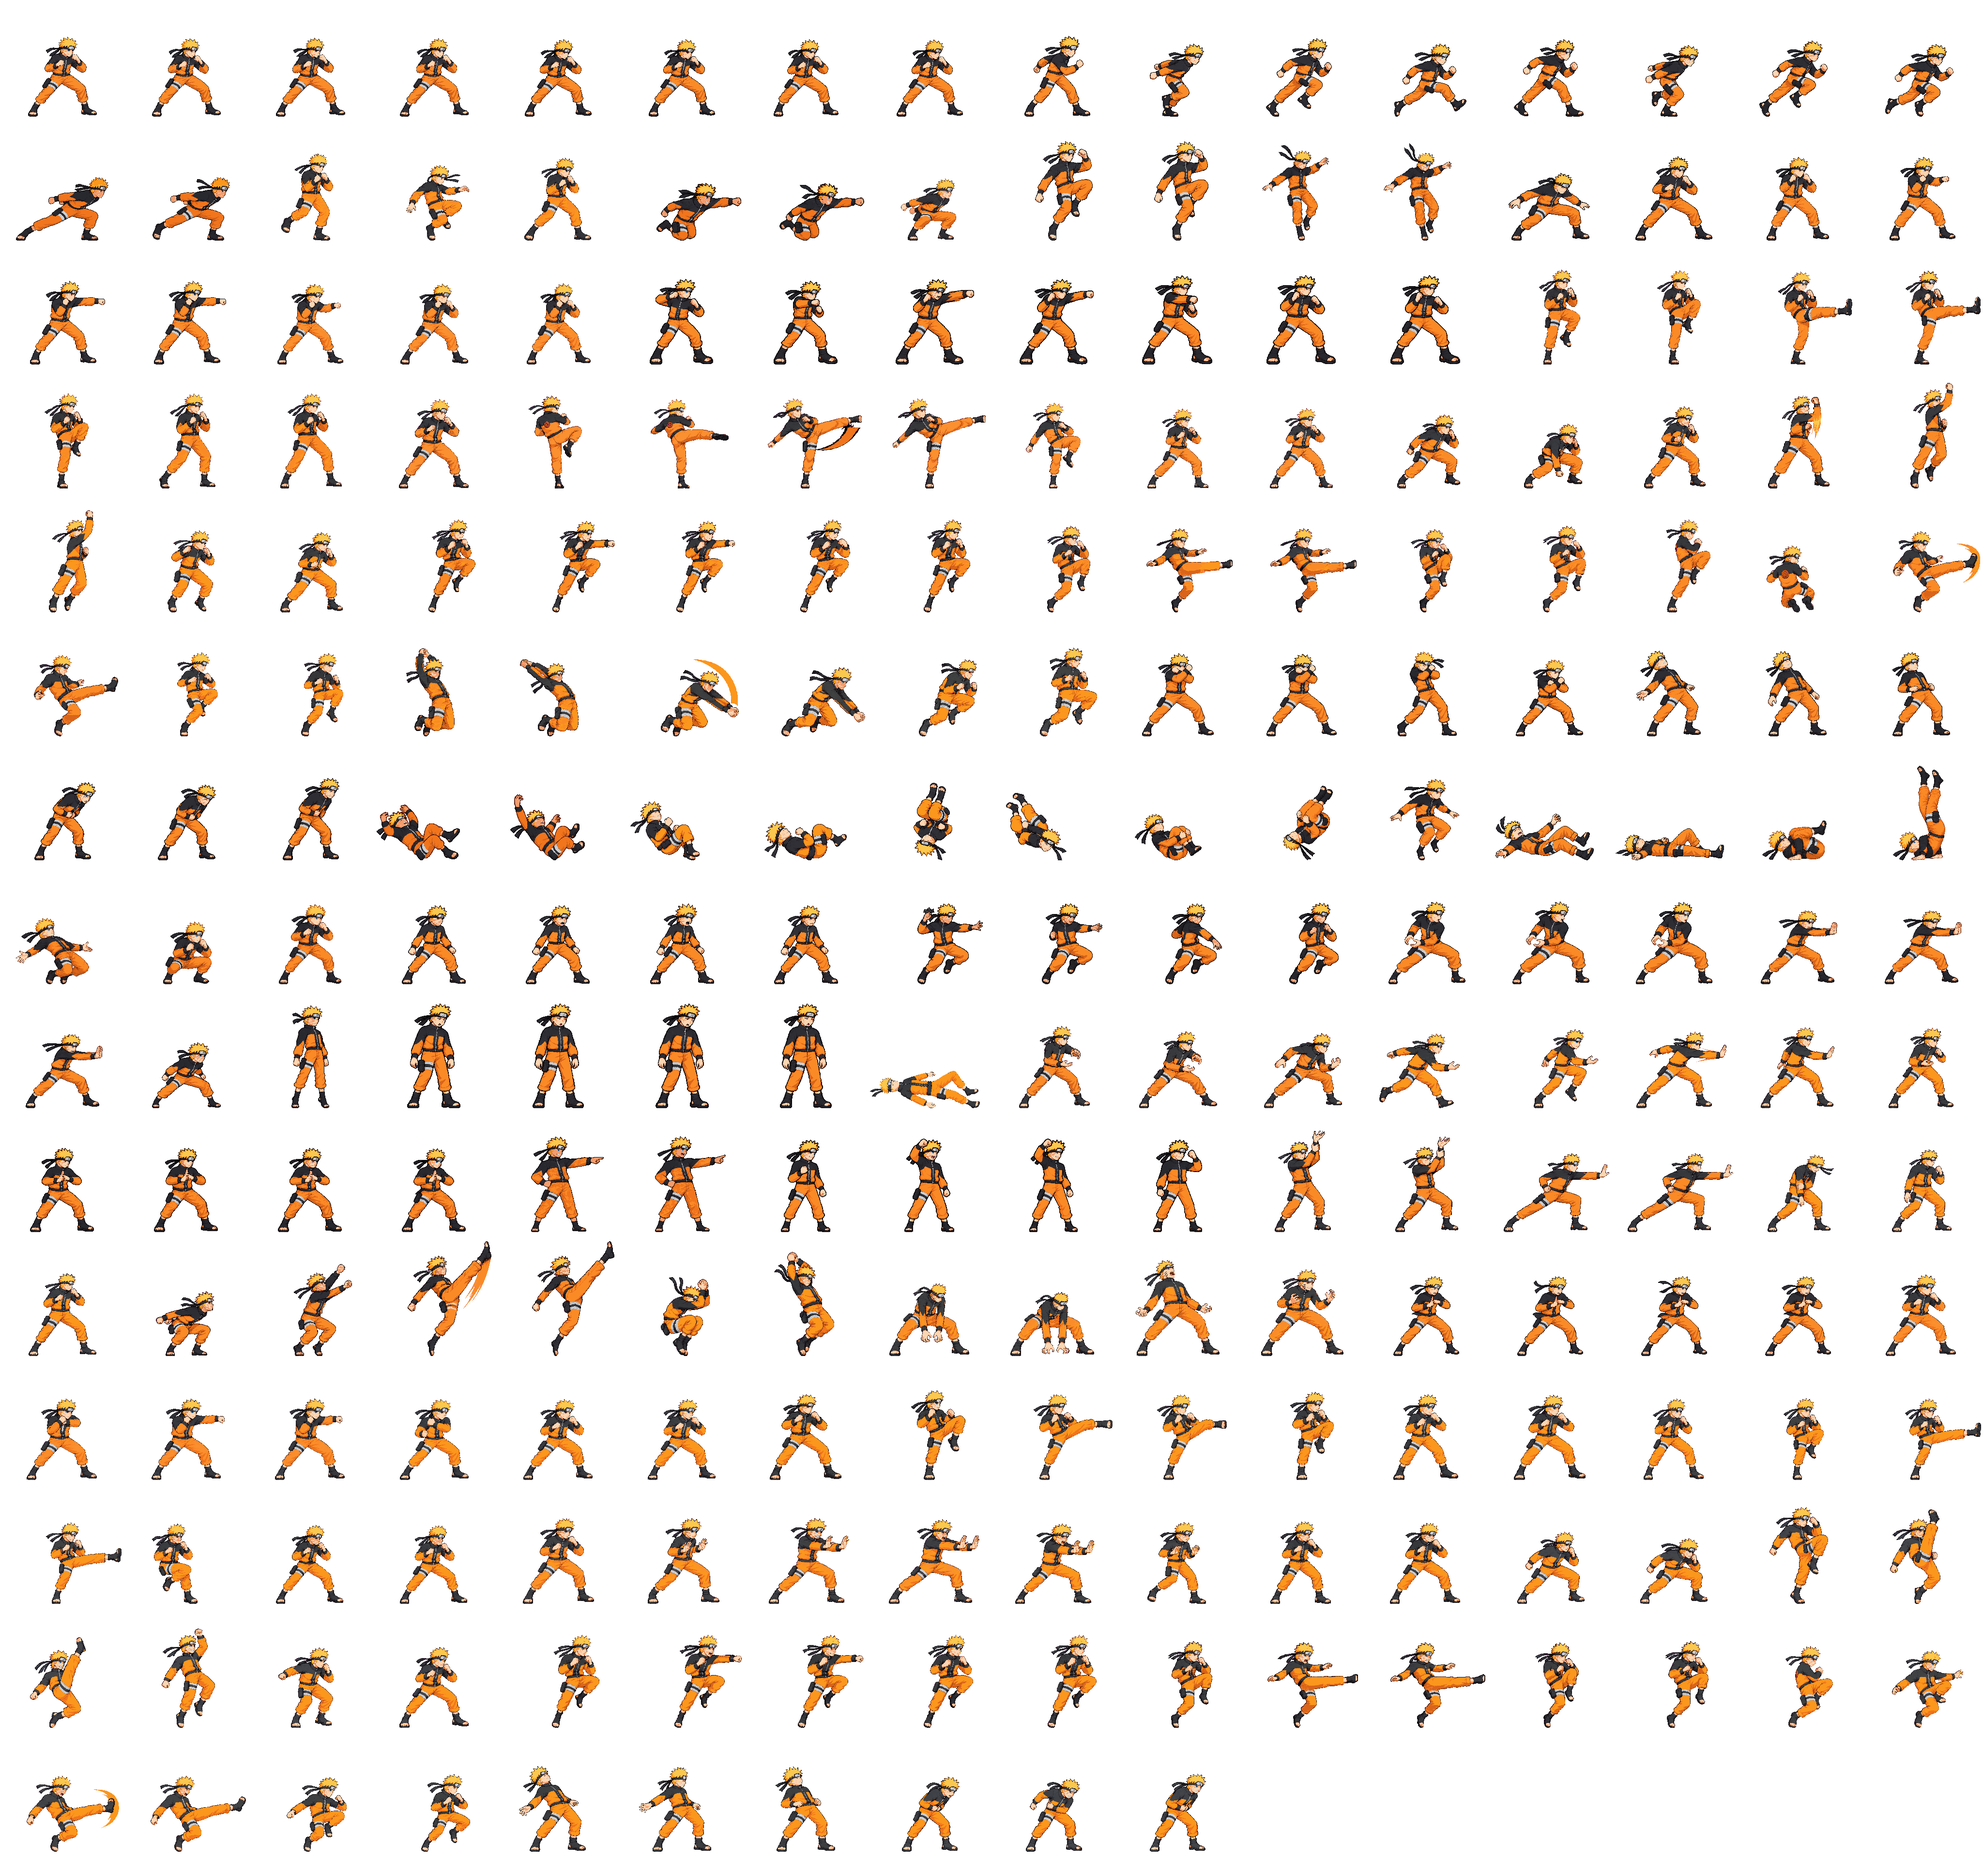
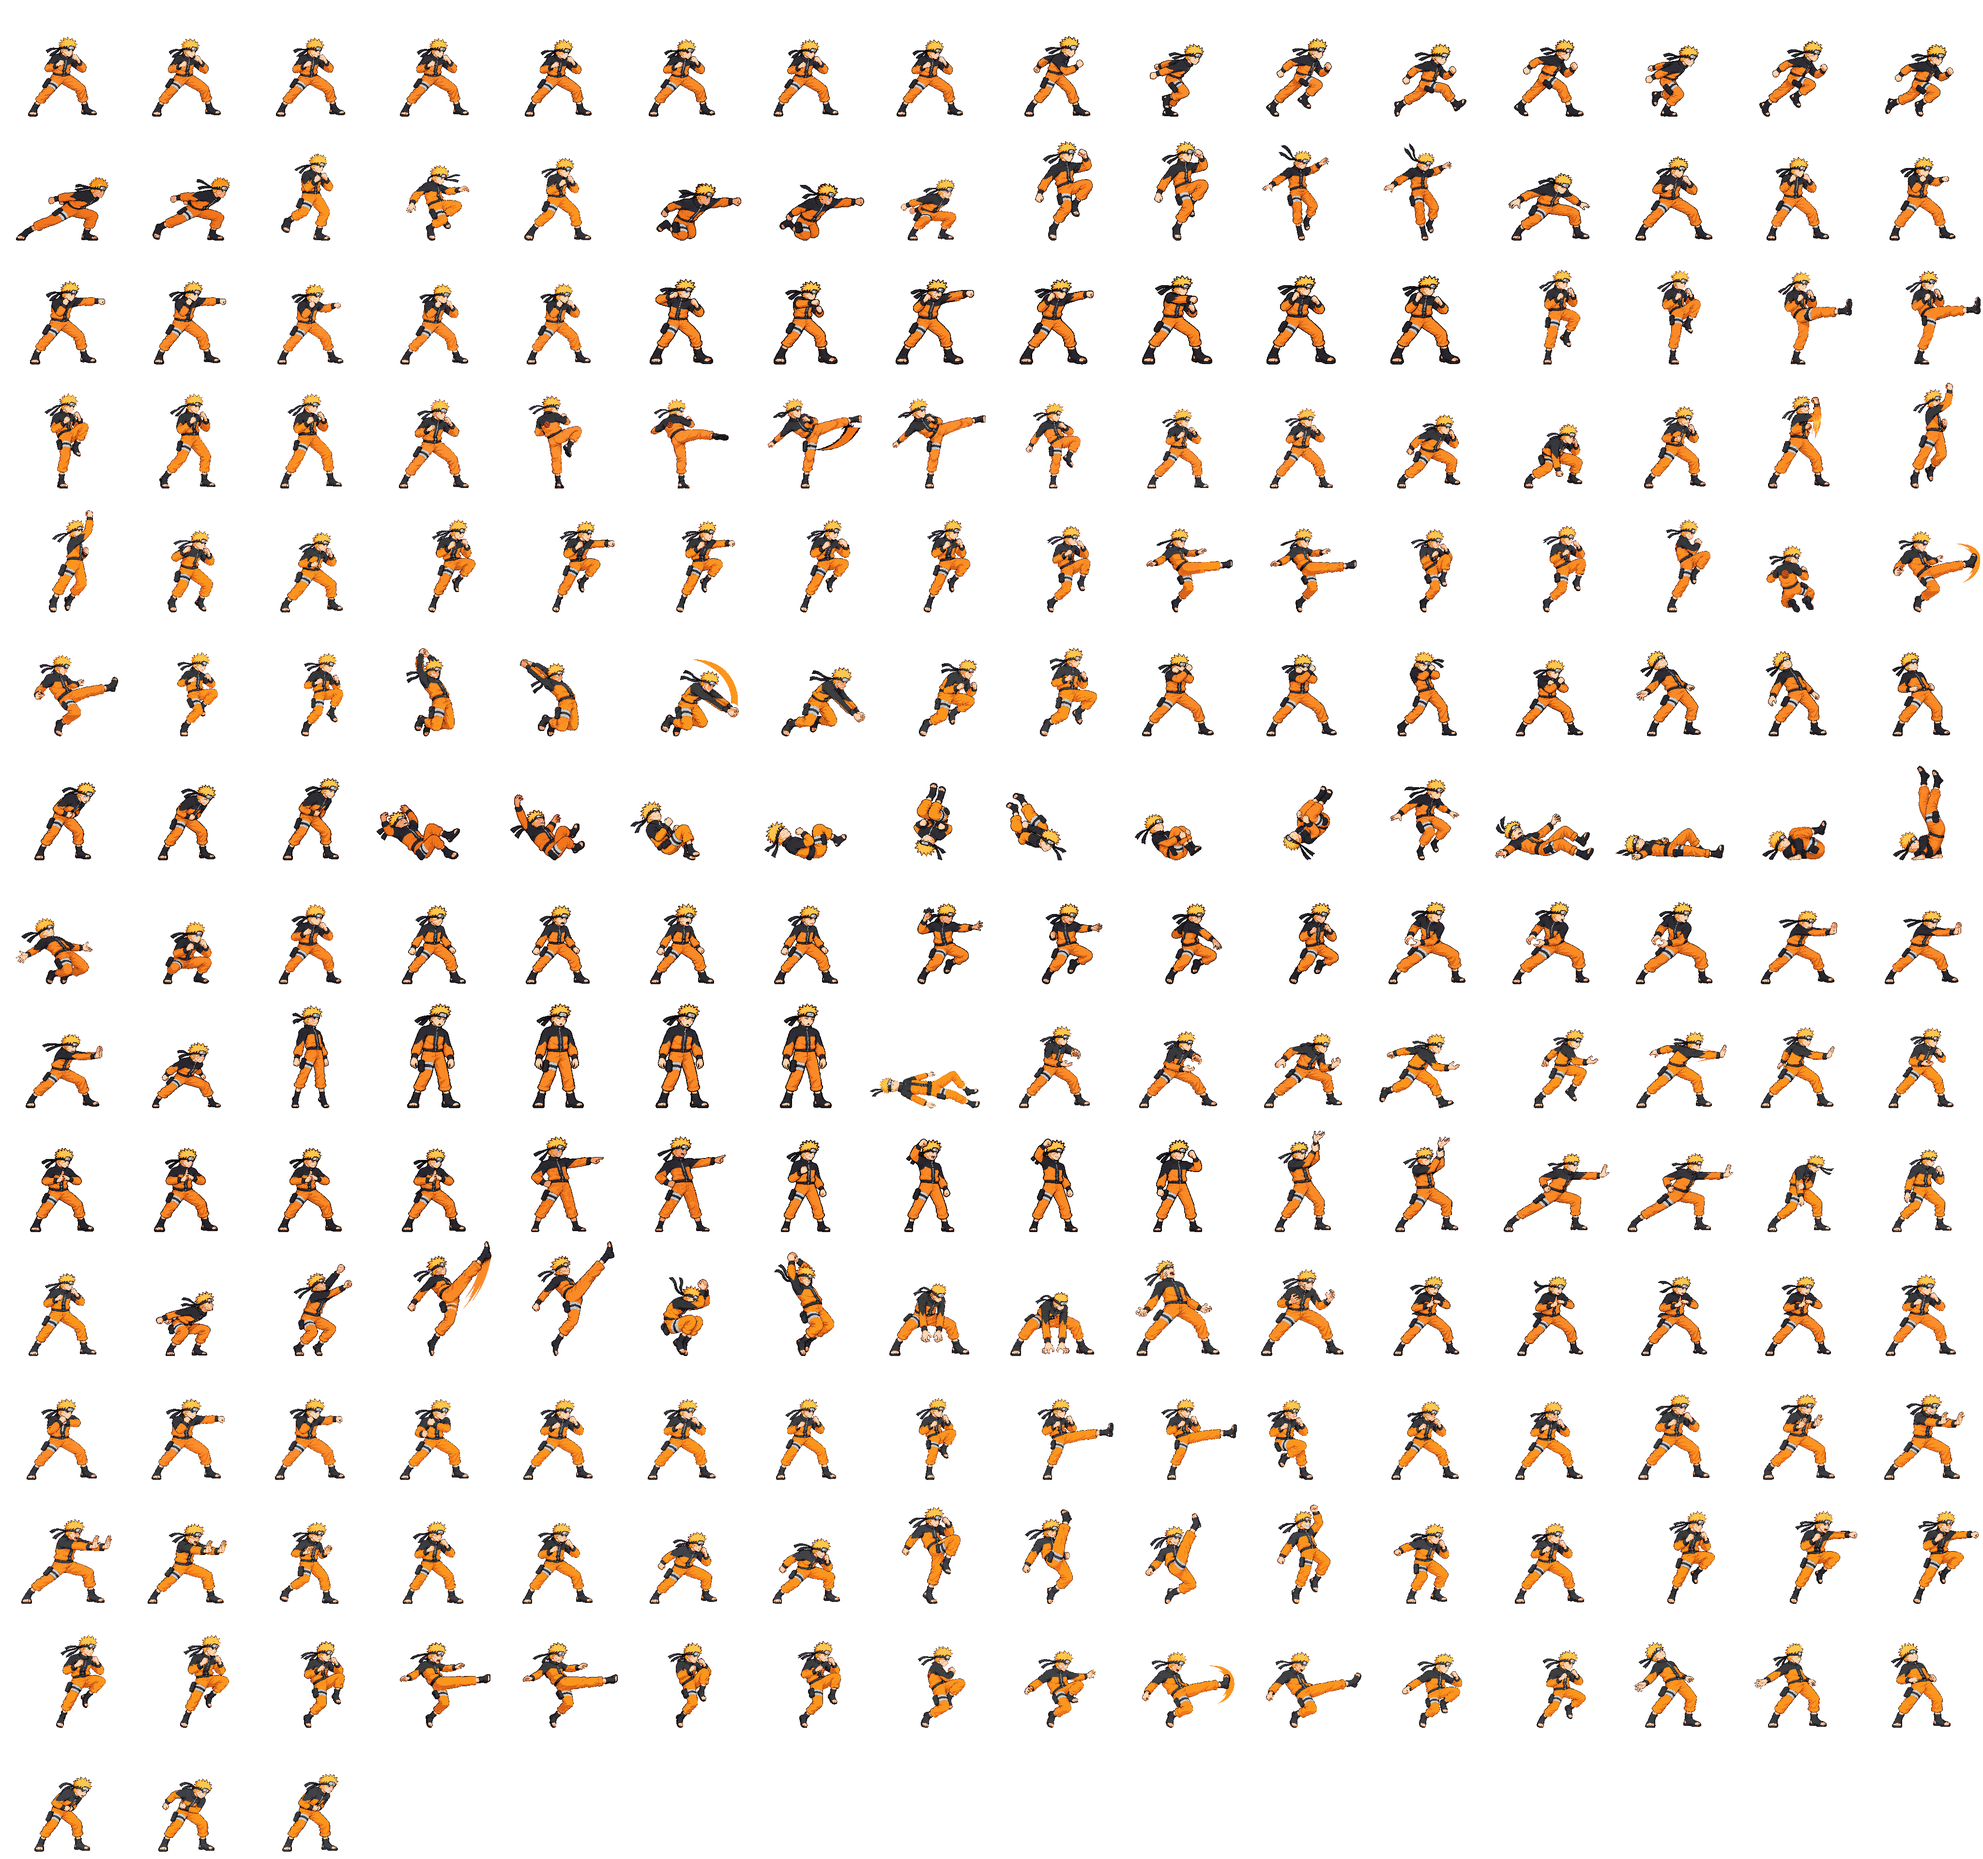
chore(naruto): hold every light2Alt version so the base light2 plays; pack the nine alts

Changed region(s): [[0.0, 0.8125, 0.8125, 1.0], [0.375, 0.75, 1.0, 0.9375], [0.3438, 0.875, 0.375, 0.9375]]

diff --git a/art/characters/naruto/production/alts/claude-contact/CONTACT.md b/art/characters/naruto/production/alts/claude-contact/CONTACT.md
@@ -80,3 +80,17 @@ non-alt strip). Ten alts, every one at head 1.022-1.059 and every one carrying i
 alt warning left is light2Alt's visual offset (the kick lands about 28 px under and 32 px past light2's fist; contact
[2 lines of base64/hex data omitted]
+
+# Round 4 (2026-10-15): light2Alt held as the user decided
+
+The user kept light2Alt v04 held (its one repair call left the kick 27-28 px under light2's contact). Holding only v04
+would have shipped v03 (the same low kick, unapproved), so every light2Alt version, v01 to v04 with their sidecars, is
+now in `raw/_qa_hold/` (moved byte for byte with `git mv`). The packer packs no light2Alt and the game plays the base
+light2 in that slot (ADR 0031), like airHeavyAlt. `raw/light2Alt_02-03_fix01.png` (Codex's repair part, not a `_vNN`
+version) stays where it is; the packer ignores it.
+
+Pack: `node tools/pack-sprites.mjs naruto --quantize 48`, gate 1 ref, 42 ok, 7 manual, 1 unmeasured (a non-alt strip).
+Nine alts ship, each with its base's hit and hurt boxes: light1Alt, light3Alt, light4Alt, heavyAlt, airLight1Alt,
+airLight2Alt, airLight3Alt, hurtHighAlt, hurtLowAlt. Atlas: sheet sha256
[2 lines of base64/hex data omitted]
